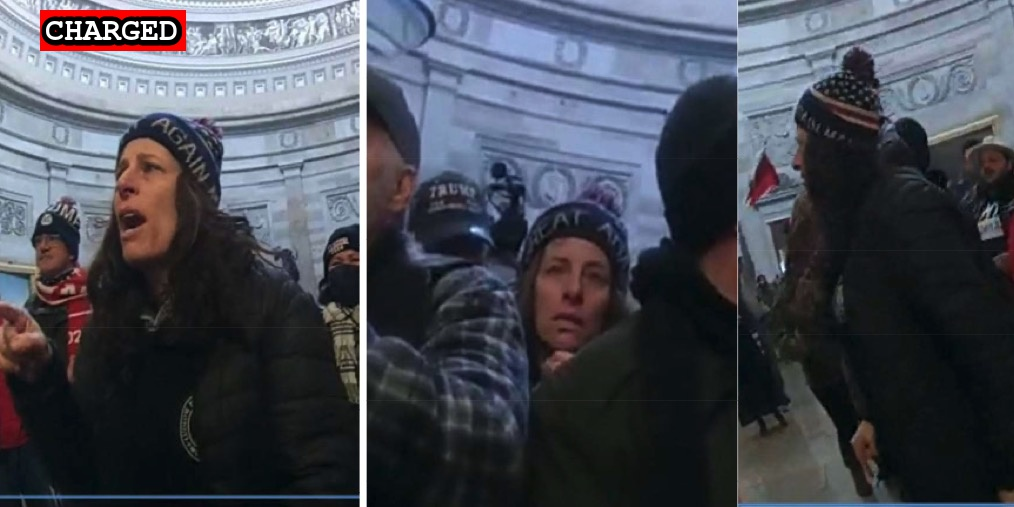
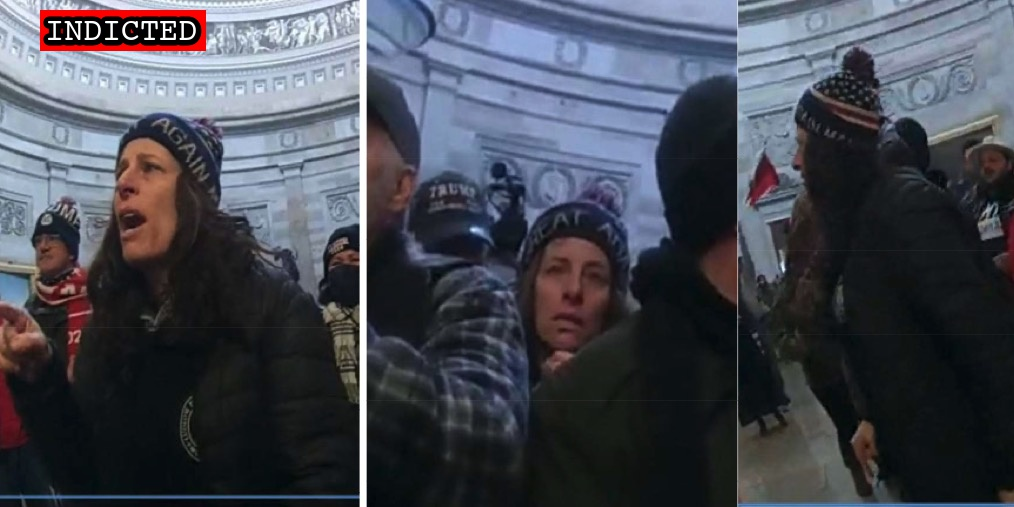
updated suspects

Changed region(s): [[0.0306, 0.0, 0.214, 0.1183]]

diff --git a/docs/_suspects/pauline-bauer.md b/docs/_suspects/pauline-bauer.md
@@ -3,10 +3,12 @@ name: Pauline Bauer
 lastName: Bauer
 aka:
 residence: Pennsylvania
-status: Charged
+status: Indicted
 date: 2021-05-18
 charged: 2021-05-18
-indicted:
+indicted: 2021-06-04
+convicted:
+dismissed:
 age:
 occupation:
 affiliations:
@@ -29,3 +31,4 @@ charges:
 - [News Report](https://www.msn.com/en-us/news/us/they-need-to-hang-pennsylvania-woman-arrested-in-capitol-riot-investigation/ar-BB1gV8Pd)
 - [Complaint](https://www.justice.gov/usao-dc/case-multi-defendant/file/1395366/download)
 - [Statement of Facts](https://www.justice.gov/usao-dc/case-multi-defendant/file/1395396/download)
+- [Indictment](https://www.justice.gov/usao-dc/case-multi-defendant/file/1404551/download)

diff --git a/docs/_suspects/leonard-gruppo.md b/docs/_suspects/leonard-gruppo.md
@@ -4,8 +4,8 @@ lastName: Gruppo
 aka:
 residence: Texas
 status: Charged
-date: 2020-06-01
-charged: 2020-06-01
+date: 2021-06-01
+charged: 2021-06-01
 indicted:
 age:
 occupation: Physician's Assistant
@@ -19,7 +19,7 @@ courthouse:
 raid:
 perpwalk:
 quote:
-title: Leonard Gruppo charged on June 1st, 2020
+title: Leonard Gruppo charged on June 1st, 2021
 description: Click for latest case details. Suspects innocent until proven guilty.
 author: seditiontrack
 layout: suspect

diff --git a/docs/_suspects/nicole-prado.md b/docs/_suspects/nicole-prado.md
@@ -30,3 +30,4 @@ charges:
 ---
 - [News Report](https://www.wusa9.com/article/news/national/capitol-riots/meet-the-new-congresswoman-friends-instagram-post-leads-to-womans-capitol-riot-arrest-nicole-prado-trump-gaithersburg/65-f436d15e-6d06-462d-9a94-5ac2d9ea4e11)
 - [Complaint](https://extremism.gwu.edu/sites/g/files/zaxdzs2191/f/Nicole%20Prado%20Criminal%20Complaint.pdf)
+- [Information](https://www.justice.gov/usao-dc/case-multi-defendant/file/1404496/download)

diff --git a/docs/_suspects/karol-chwiesiuk.md b/docs/_suspects/karol-chwiesiuk.md
@@ -4,8 +4,8 @@ lastName: Chwiesiuk
 aka:
 residence: Illinois
 status: Charged
-date: 2011-06-11
-charged: 2011-06-11
+date: 2021-06-11
+charged: 2021-06-11
 indicted:
 age:
 occupation: Police Officer
